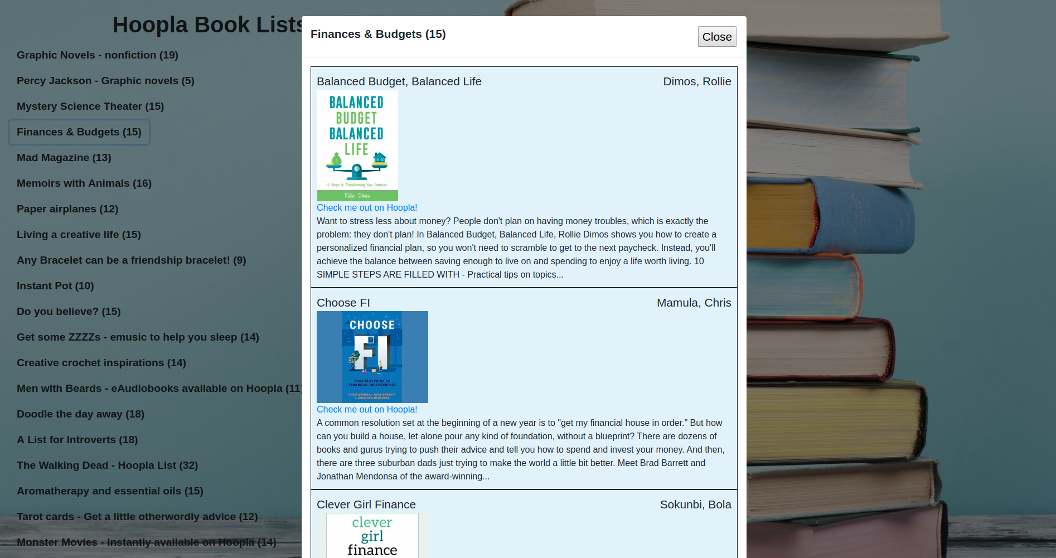
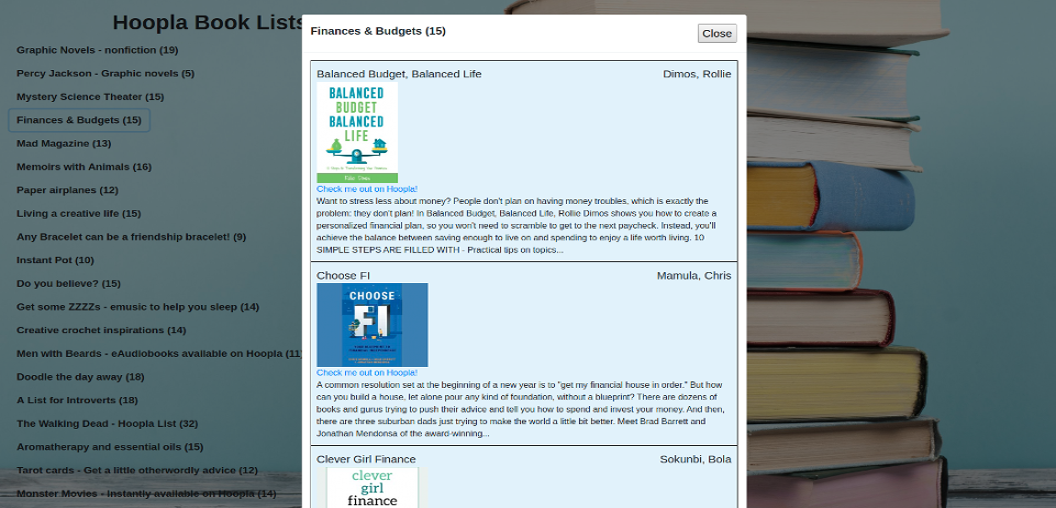
added @media changes to responsiveness. updated librarylist background image.

diff --git a/css/min.styles.css b/css/min.styles.css
@@ -1,1 +1,1 @@
-body{background-color:#1d1b1c;color:#fff;font-family:Roboto,sans-serif;text-align:center;margin:0 auto;font-weight:400}div.introImg{background:url(../img/computerBackgroundMobile.jpg);height:100vh;background-size:cover}hr{width:75%;margin:3em auto;border:0;height:1px;background-image:linear-gradient(to right,rgba(158,145,145,0),rgba(212,207,207,.75),rgba(158,145,145,0))}.typing{display:inline-block;font-size:5vw;letter-spacing:.05em;margin:0 auto;width:auto}h2{margin-top:0;letter-spacing:.2em;font-size:1.2em}.featuredContainer{width:calc(100% - 48px);margin-left:auto;margin-right:auto}.image{border-radius:10px;opacity:1;display:block;width:100%;height:auto;transition:.5s ease;backface-visibility:hidden}.project{margin-top:5em}.projectInfo{position:relative}.card{background-color:#4f4f4f;padding:2rem}.project_header{padding-bottom:1rem;border-bottom:1px solid #fff}.projectImage{width:100%}.introText{padding-top:60vw}h1{margin-top:0;padding-top:1em;font-size:10vw}h3{font-size:2.3em}html{scroll-behavior:smooth}.navigation-list{list-style-type:none}.navigation-list li{padding:10px}.sticky{position:fixed;top:0;width:98%;z-index:1}a{color:#fff;text-decoration:none}a:focus,a:hover{text-decoration:none}.button:focus,.button:hover,button:focus,button:hover{cursor:pointer;opacity:.8}div.container{margin:0 auto;text-align:right}div.container a{text-decoration:none;font:20px roboto;padding:5px;position:relative;cursor:pointer}div.topBottomBordersOut a:after,div.topBottomBordersOut a:before{position:absolute;left:0;width:100%;height:2px;background:#fff;content:'';opacity:0;transition:all .3s}div.topBottomBordersOut a:before{top:0;transform:translateY(10px)}div.topBottomBordersOut a:after{bottom:0;transform:translateY(-10px)}div.topBottomBordersOut a:hover:after,div.topBottomBordersOut a:hover:before{opacity:1;transform:translateY(0)}.containerProject:hover .middle{opacity:1}.containerProject:hover .middleFeatured{opacity:1;width:80%;float:right}.containerProject{border-radius:10px;position:relative;display:inline-block;width:90%;margin-top:5em;box-shadow:0 4px 8px 0 rgba(255,255,255,.144)}.otherProjects{margin:2em}.middle{border-radius:10px;position:absolute;top:0;bottom:0;left:0;right:0;height:100%;width:100%;opacity:0;transition:.5s ease;background-color:#4f4f4f}.text .code{float:left}.text .website{float:right}.trigger{visibility:hidden}h4{font-size:1.2em}.modal{position:fixed;left:0;top:0;width:100%;height:100%;background-color:rgba(0,0,0,.5);opacity:0;visibility:hidden;transform:scale(1.1);transition:visibility 0s linear .25s,opacity .25s 0s,transform .25s;z-index:5}.modal-content{position:absolute;top:50%;left:50%;transform:translate(-50%,-50%);background-color:#4f4f4f;padding:1rem 1.5rem;height:75%;width:75%;border-radius:.5rem;z-index:5;text-align:left}.close-button{float:right;width:1.5rem;line-height:1.5rem;text-align:center;cursor:pointer;border-radius:.25rem;background-color:#a9a9a9}.close-button:hover{background-color:#4b4a4a}.show-modal{opacity:1;visibility:visible;transform:scale(1);transition:visibility 0s linear 0s,opacity .25s 0s,transform .25s}.Terminal{overflow-x:hidden;overflow-y:auto}.projects{color:#69c2cf}.cd.projects{color:#fff}.projects.ls{color:#fff}.file.projects{color:#fff}.cat.projects{color:#fff}.cat.hidden{opacity:1}div .hidden{opacity:.5}.hiddenImg{height:45%;width:45%}.profile__portrait{position:absolute;border-radius:50%;height:300px;width:300px;top:50%;left:50%;margin:-150px 0 0 -150px;filter:gray;-webkit-filter:grayscale(1);-webkit-transition:all .25s ease-in-out}.profile__portrait:hover{filter:none;-webkit-filter:grayscale(0);-webkit-transform:scale(1)}.imageBorder{border:5px solid #fff;border-radius:50%;height:350px;width:350px;position:relative;margin:auto}.profileBioLeft{margin:auto;padding-top:2em;width:90%}.mediaLinks{margin-top:4em}.mediaLinks a{padding-left:20px;filter:gray;-webkit-filter:grayscale(1);-webkit-transition:all .25s ease-in-out}.mediaLinksFooter a{margin:20px}.mediaLinksFooter{padding-bottom:50px}.profile_media:hover{filter:none;-webkit-filter:grayscale(0);-webkit-transform:scale(1)}.profileBioRight{width:90%;margin:auto;font-size:1.1em}@media (min-width:768px){div.introImg{background:url(../img/computerBackground.jpg);height:100vh;background-size:cover}.introText{padding-top:0}.featuredContainer{width:60%;margin-bottom:2em}.project{display:flex;align-items:center}.projectInfo{width:45%}.projectImage{width:75%}.project:nth-child(odd) .projectInfo{margin-right:-4rem}.project:nth-child(odd) .card:before{right:-10px}.project:nth-child(even) .projectInfo,.project:nth-child(odd) .card__header{order:1;margin-left:-4rem}.project:nth-child(even) .card:before{left:-10px}.card:before{bottom:auto}.profileInfoContainer{width:75%;margin:0 auto;display:flex;align-items:center;justify-content:center;height:70vh}.profileBioLeft{display:inline-block;width:40%;margin-right:5em;max-width:50%}.profileBioRight{display:inline-block;width:45%;text-align:left}.trigger{visibility:visible}.containerProject{width:40%;margin:2em}.text{font-size:1.2em;padding:15px 30px}}
+body{background-color:#1d1b1c;color:#fff;font-family:Roboto,sans-serif;text-align:center;margin:0 auto;font-weight:400}div.introImg{background:url(../img/computerBackgroundMobile.jpg);height:100vh;background-size:cover}hr{width:75%;margin:3em auto;border:0;height:1px;background-image:linear-gradient(to right,rgba(158,145,145,0),rgba(212,207,207,.75),rgba(158,145,145,0))}.typing{display:inline-block;font-size:5vw;letter-spacing:.05em;margin:0 auto;width:auto}h2{margin-top:0;letter-spacing:.2em;font-size:1.2em}.featuredContainer{width:calc(100% - 48px);margin-left:auto;margin-right:auto}.image{border-radius:10px;opacity:1;display:block;width:100%;height:auto;transition:.5s ease;backface-visibility:hidden}.project{margin-top:5em}.projectInfo{position:relative}.card{background-color:#4f4f4f;padding:2rem}.project_header{padding-bottom:1rem;border-bottom:1px solid #fff}.projectImage{width:100%}.introText{padding-top:60vw}h1{margin-top:0;padding-top:1em;font-size:10vw}h3{font-size:2.3em}html{scroll-behavior:smooth}.navigation-list{list-style-type:none}.navigation-list li{padding:10px}.sticky{position:fixed;top:0;width:98%;z-index:1}a{color:#fff;text-decoration:none}a:focus,a:hover{text-decoration:none}.button:focus,.button:hover,button:focus,button:hover{cursor:pointer;opacity:.8}div.container{margin:0 auto;text-align:right}div.container a{text-decoration:none;font:20px roboto;padding:5px;position:relative;cursor:pointer}div.topBottomBordersOut a:after,div.topBottomBordersOut a:before{position:absolute;left:0;width:100%;height:2px;background:#fff;content:'';opacity:0;transition:all .3s}div.topBottomBordersOut a:before{top:0;transform:translateY(10px)}div.topBottomBordersOut a:after{bottom:0;transform:translateY(-10px)}div.topBottomBordersOut a:hover:after,div.topBottomBordersOut a:hover:before{opacity:1;transform:translateY(0)}.containerProject:hover .middle{opacity:1}.containerProject:hover .middleFeatured{opacity:1;width:80%;float:right}.containerProject{border-radius:10px;position:relative;display:inline-block;width:90%;margin-top:5em;box-shadow:0 4px 8px 0 rgba(255,255,255,.144)}.otherProjects{margin:2em}.middle{border-radius:10px;position:absolute;top:0;bottom:0;left:0;right:0;height:100%;width:100%;opacity:0;transition:.5s ease;background-color:#4f4f4f}.text .code{float:left}.text .website{float:right}.trigger{visibility:hidden}h4{font-size:1.2em}.modal{position:fixed;left:0;top:0;width:100%;height:100%;background-color:rgba(0,0,0,.5);opacity:0;visibility:hidden;transform:scale(1.1);transition:visibility 0s linear .25s,opacity .25s 0s,transform .25s;z-index:5}.modal-content{position:absolute;top:50%;left:50%;transform:translate(-50%,-50%);background-color:#4f4f4f;padding:1rem 1.5rem;height:75%;width:75%;border-radius:.5rem;z-index:5;text-align:left}.close-button{float:right;width:1.5rem;line-height:1.5rem;text-align:center;cursor:pointer;border-radius:.25rem;background-color:#a9a9a9}.close-button:hover{background-color:#4b4a4a}.show-modal{opacity:1;visibility:visible;transform:scale(1);transition:visibility 0s linear 0s,opacity .25s 0s,transform .25s}.Terminal{overflow-x:hidden;overflow-y:auto}.projects{color:#69c2cf}.cd.projects{color:#fff}.projects.ls{color:#fff}.file.projects{color:#fff}.cat.projects{color:#fff}.cat.hidden{opacity:1}div .hidden{opacity:.5}.hiddenImg{height:45%;width:45%}.profile__portrait{position:absolute;border-radius:50%;height:300px;width:300px;top:50%;left:50%;margin:-150px 0 0 -150px;filter:gray;-webkit-filter:grayscale(1);-webkit-transition:all .25s ease-in-out}.profile__portrait:hover{filter:none;-webkit-filter:grayscale(0);-webkit-transform:scale(1)}.imageBorder{border:5px solid #fff;border-radius:50%;height:350px;width:350px;position:relative;margin:auto}.profileBioLeft{margin:auto;padding-top:2em;width:90%}.mediaLinks{margin-top:4em}.mediaLinks a{padding-left:20px;filter:gray;-webkit-filter:grayscale(1);-webkit-transition:all .25s ease-in-out}.mediaLinksFooter a{margin:20px}.mediaLinksFooter{padding-bottom:50px}.profile_media:hover{filter:none;-webkit-filter:grayscale(0);-webkit-transform:scale(1)}.profileBioRight{width:90%;margin:auto;font-size:1.1em}@media (min-width:950px){div.introImg{background:url(../img/computerBackground.jpg);height:100vh;background-size:cover}.introText{padding-top:0}.featuredContainer{width:60%;margin-bottom:2em}.project{display:flex;align-items:center}.projectInfo{width:45%}.projectImage{width:75%}.project:nth-child(odd) .projectInfo{margin-right:-4rem}.project:nth-child(odd) .card:before{right:-10px}.project:nth-child(even) .projectInfo,.project:nth-child(odd) .card__header{order:1;margin-left:-4rem}.project:nth-child(even) .card:before{left:-10px}.card:before{bottom:auto}.profileInfoContainer{width:75%;margin:0 auto;display:flex;align-items:center;justify-content:center;height:70vh}.profileBioLeft{display:inline-block;width:40%;margin-right:5em;max-width:50%}.profileBioRight{display:inline-block;width:45%;text-align:left}.profileBio{margin-bottom:10em}.trigger{visibility:visible}.containerProject{width:40%;margin:2em}.text{font-size:1.2em;padding:15px 30px}}

diff --git a/css/styles.css b/css/styles.css
@@ -382,7 +382,7 @@ div .hidden {
 	font-size: 1.1em;
 }
 
-@media (min-width: 768px) {
+@media (min-width: 950px) {
 	div.introImg {
 		background: url('../img/computerBackground.jpg');
 		height: 100vh;
@@ -453,6 +453,9 @@ div .hidden {
 		display: inline-block;
 		width: 45%;
 		text-align: left;
+	}
+	.profileBio {
+		margin-bottom: 10em;
 	}
 	/* Terminal showing */
 	.trigger {
